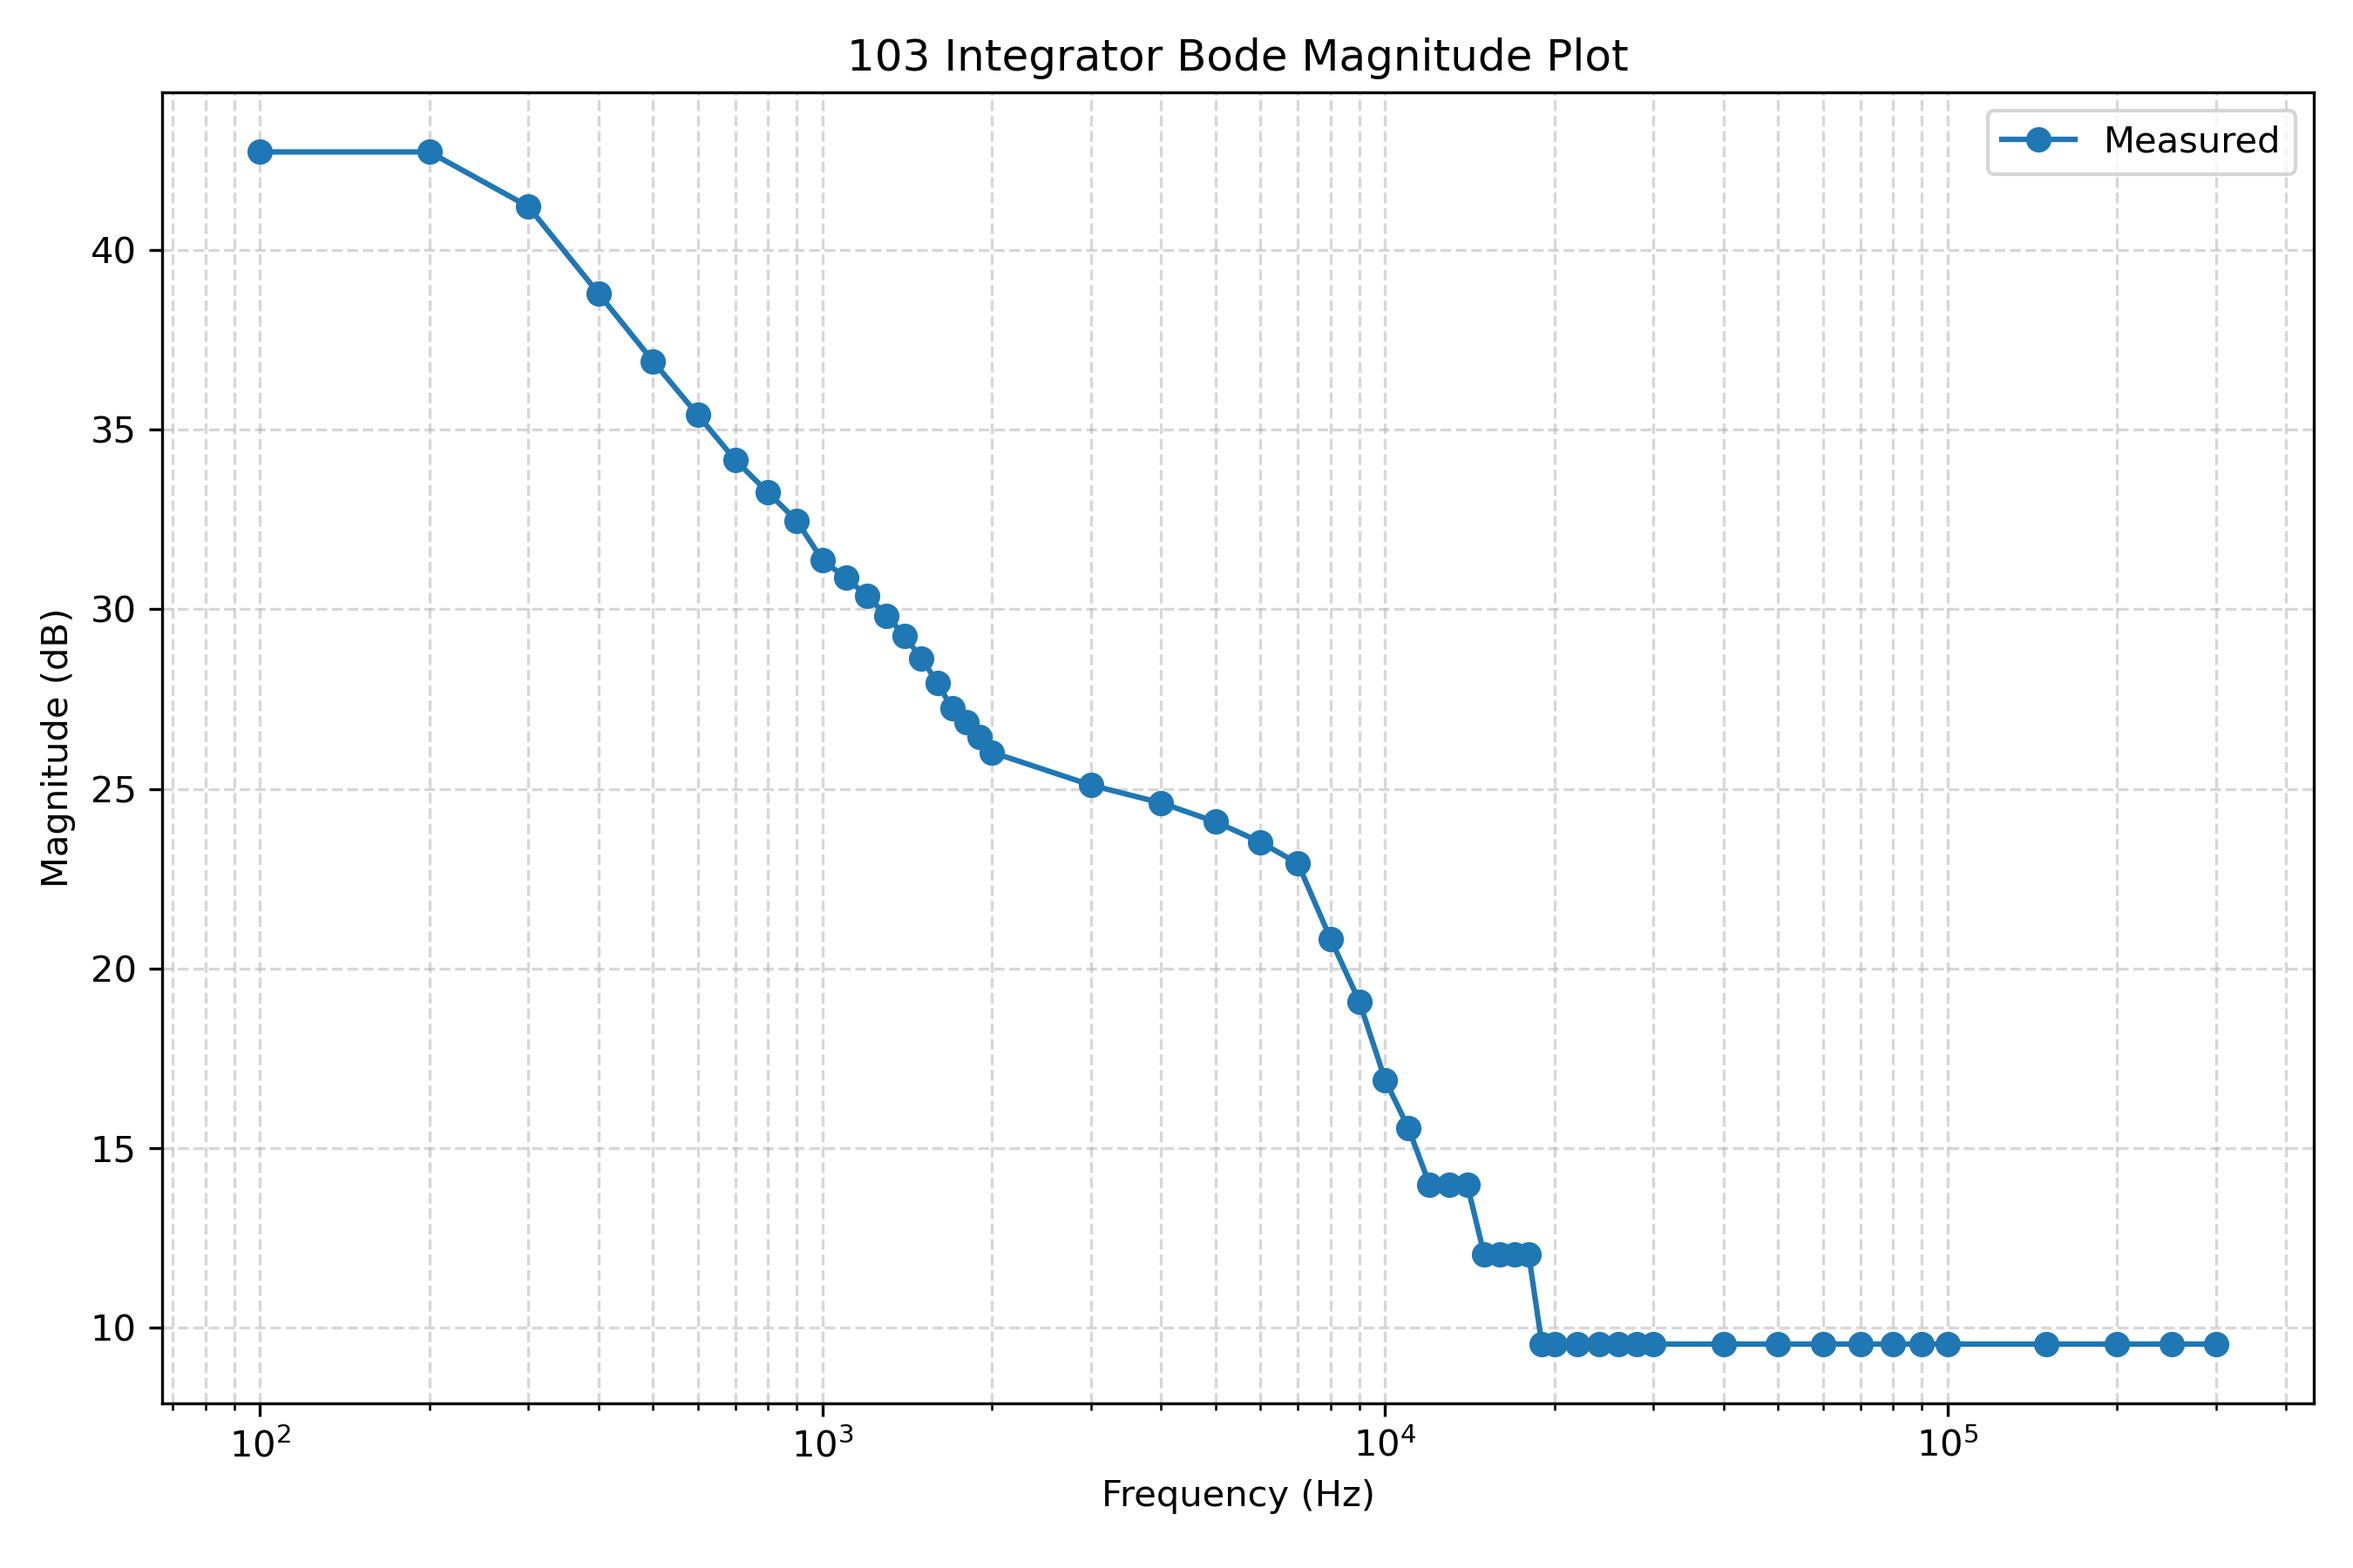
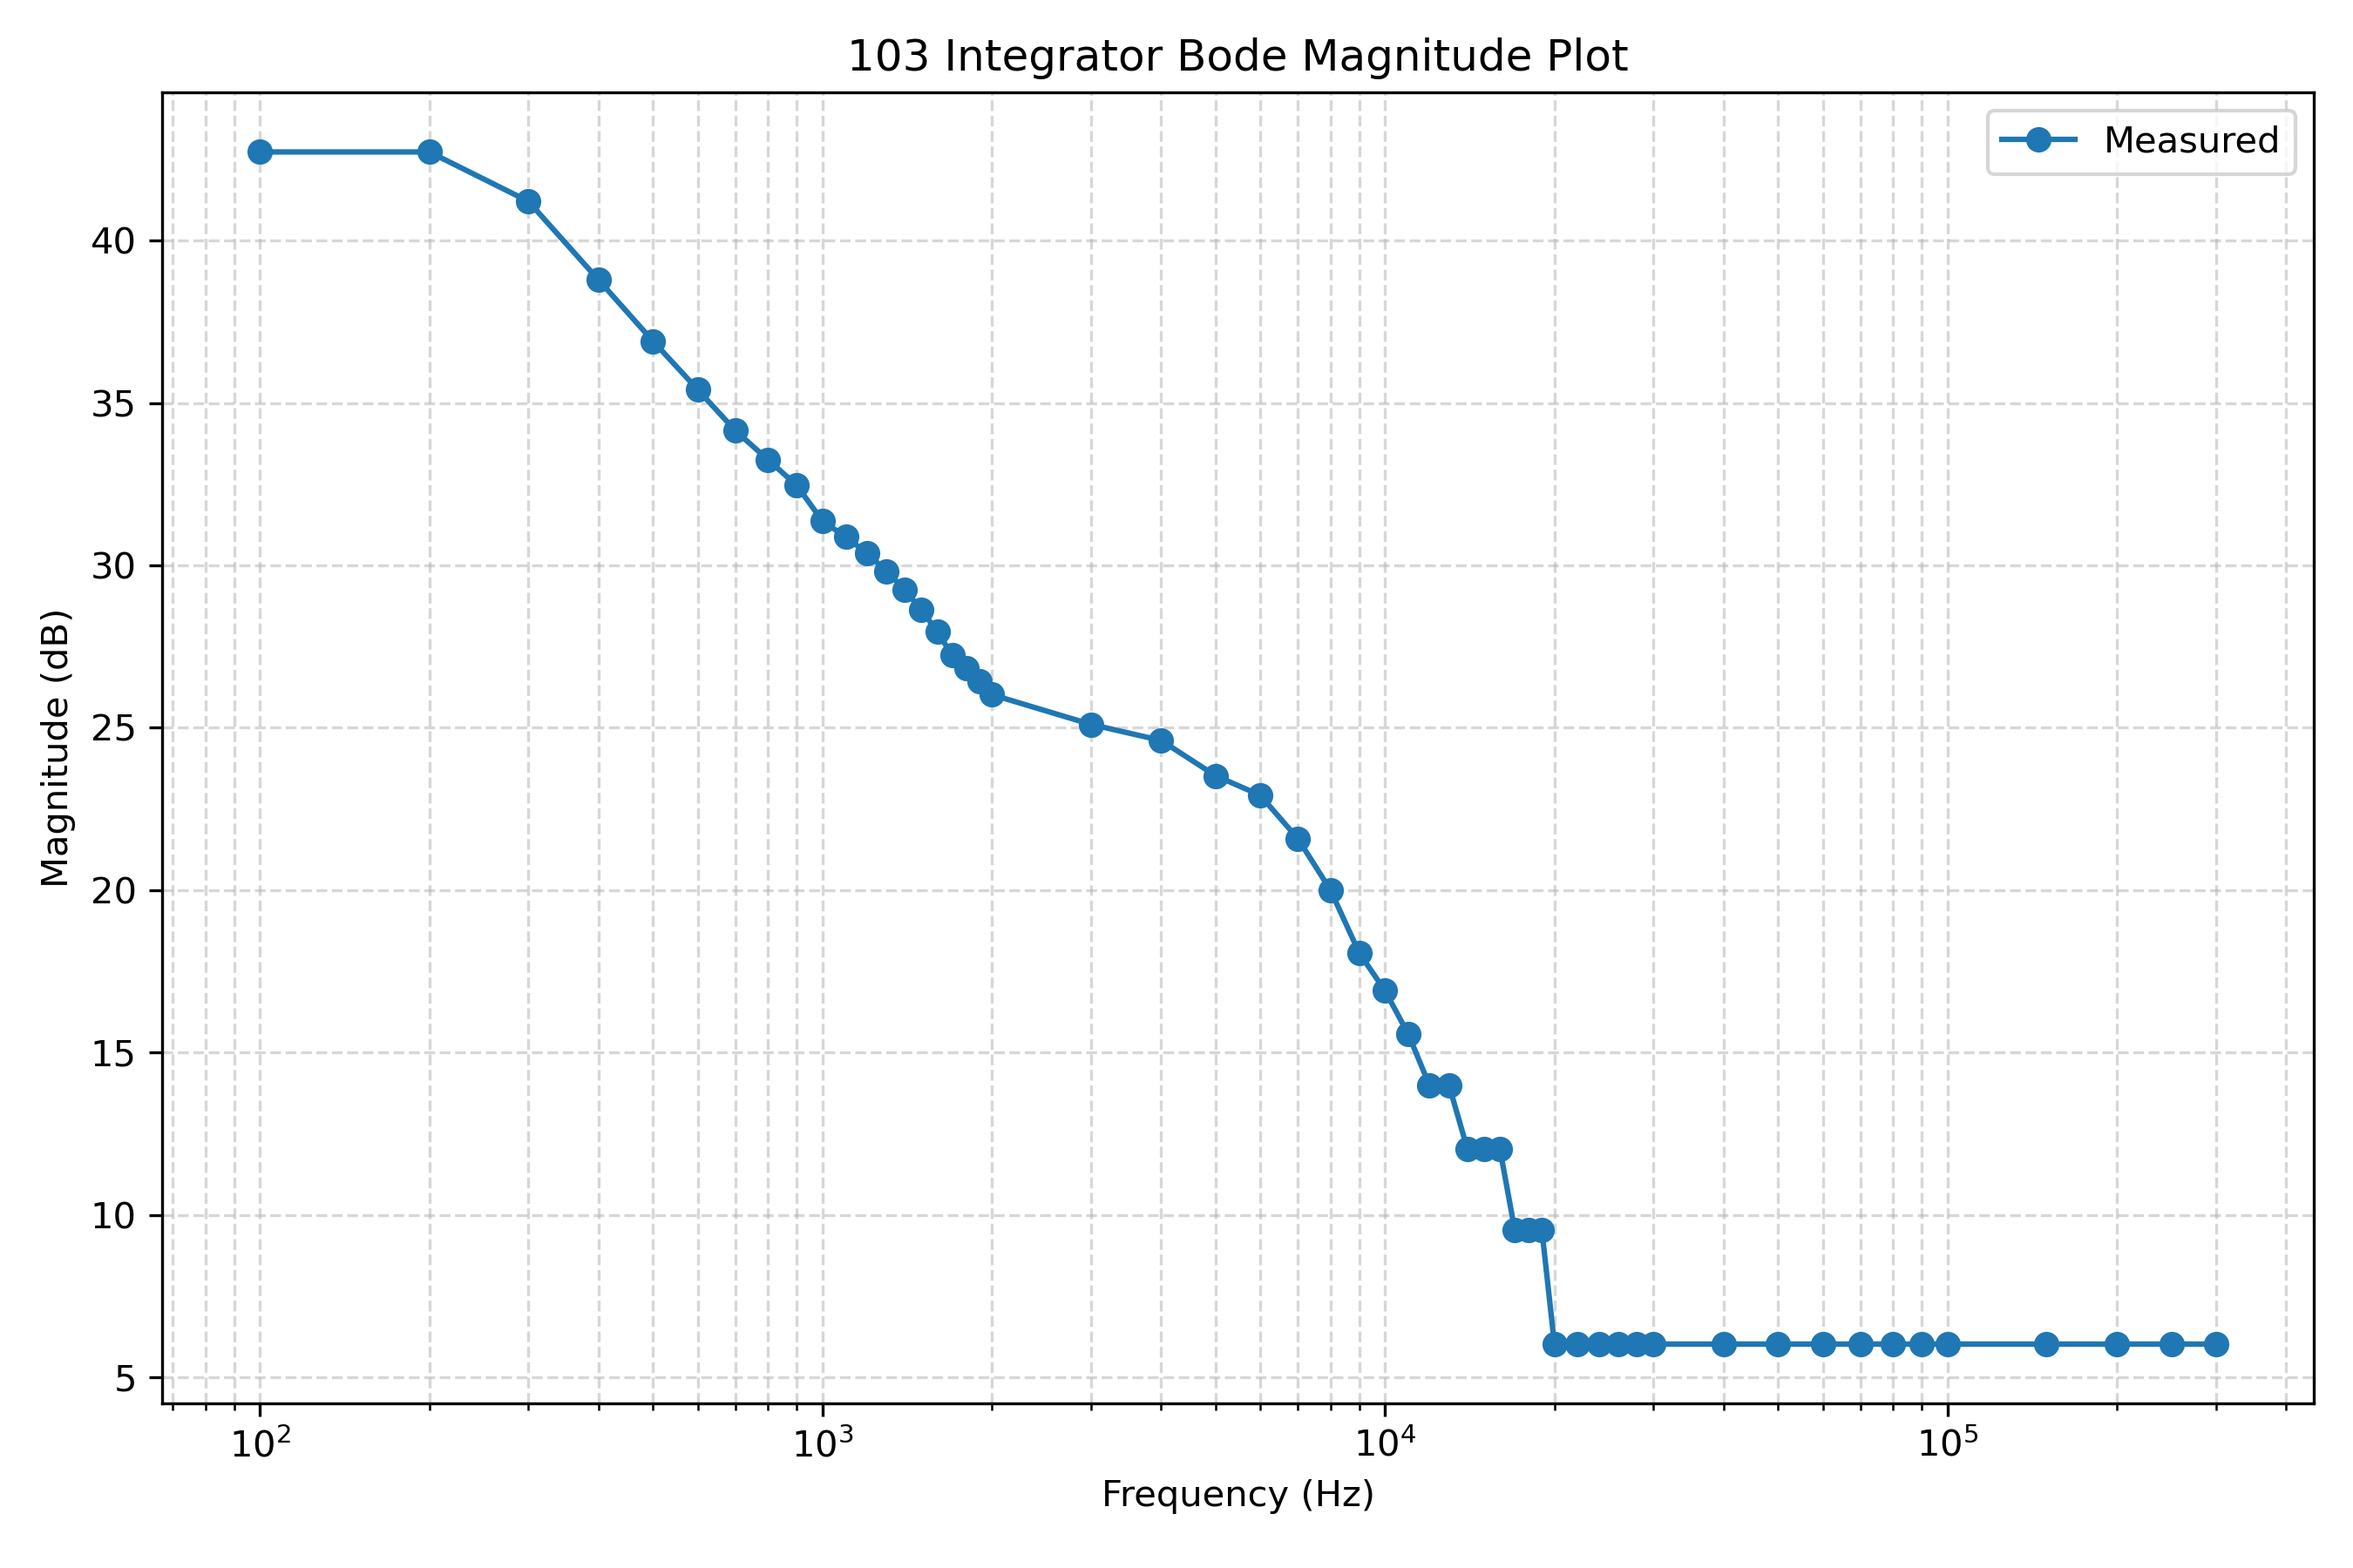
2026-10-20T13:15:48+00:00

diff --git a/2/post-lab/bode_plot.py b/2/post-lab/bode_plot.py
@@ -53,38 +53,38 @@ vout_pp1 = np.array(
         4.0,  # 2k
         3.6,  # 2.2k
         3.4,
-        3.2,
         3.0,
-        2.8,  # 3k
-        2.2,  # 4k
-        1.8,
+        2.8,
+        2.4,  # 3k
+        2.0,  # 4k
+        1.6,
         1.4,
         1.2,
-        1.0,
-        1.0,
-        1.0,  # 10k
+        1,
+        1,
+        0.8,  # 10k
         0.8,
         0.8,
-        0.8,
-        0.8,
+        0.6,
+        0.6,
         0.6,  # 15k
-        0.6,
-        0.6,
-        0.6,
-        0.6,
-        0.6,  # 20k
-        0.6,
-        0.6,
-        0.6,
-        0.6,
-        0.6,
-        0.6,
-        0.6,
-        0.6,  # 100k
-        0.6,
-        0.6,
-        0.6,
-        0.6,
+        0.4,
+        0.4,
+        0.4,
+        0.4,
+        0.4,  # 20k
+        0.4,
+        0.4,
+        0.4,
+        0.4,
+        0.4,
+        0.4,
+        0.4,
+        0.4,  # 100k
+        0.4,
+        0.4,
+        0.4,
+        0.4,
     ]
 )
 
